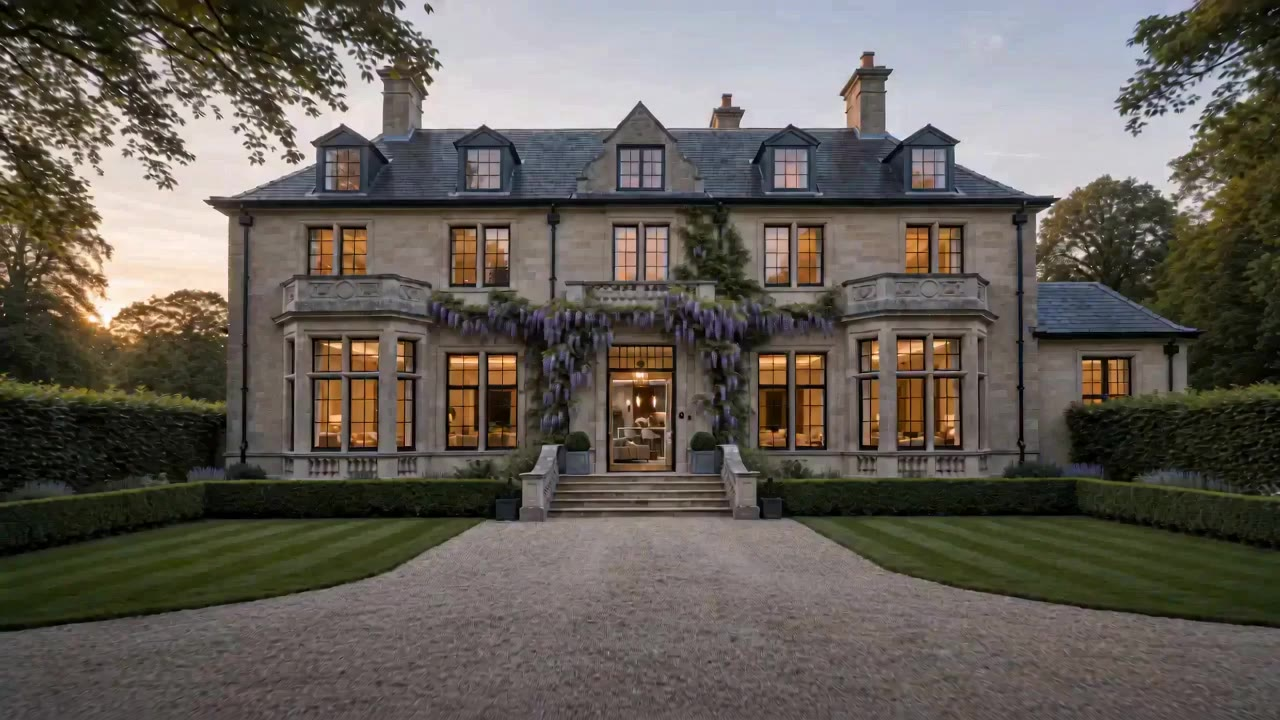
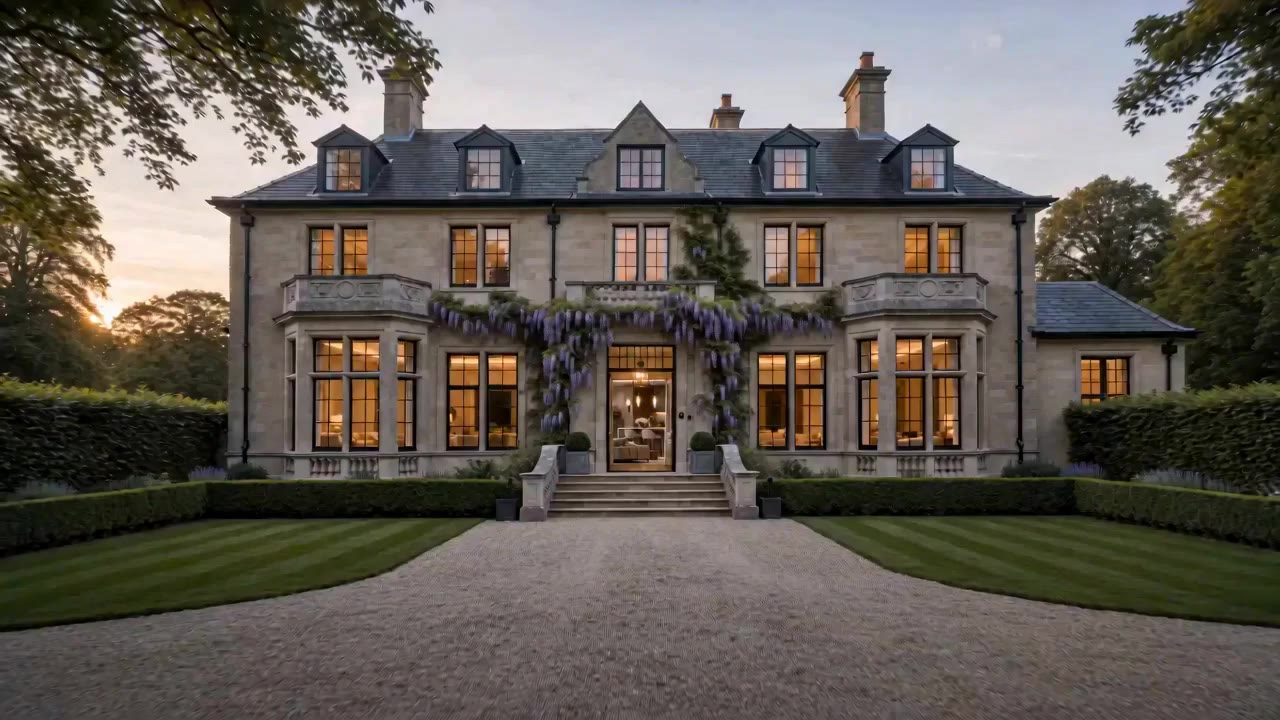
Desktop hero v3: the enclosed-hall journey, matching the mobile take
Same architecture the user loved on mobile: through the front door only
the lantern-lit panelled hall is visible, the hall bends, and the shot
settles on the parkland living room end frame. Desktop frames ship
under a fresh versioned directory (frames-v3) per the deploy-safety
notes; poster regenerated and version-bumped.

diff --git a/index.html b/index.html
@@ -56,7 +56,7 @@
     <link rel="stylesheet" href="css/style.css?v=9">
     <link rel="stylesheet" href="css/effects.css?v=7">
     <link rel="stylesheet" href="css/hero-journey.css?v=7">
-    <link rel="preload" as="image" href="images/hero/poster.jpg?v=2" fetchpriority="high" media="(orientation: landscape)">
+    <link rel="preload" as="image" href="images/hero/poster.jpg?v=3" fetchpriority="high" media="(orientation: landscape)">
     <link rel="preload" as="image" href="images/hero/poster-mobile.jpg?v=4" fetchpriority="high" media="(orientation: portrait)">
 
     <!-- Schema Markup -->
@@ -170,7 +170,7 @@
                 <canvas class="hero-canvas" id="heroCanvas" hidden></canvas>
                 <picture class="hero-poster" id="heroPoster">
                     <source media="(orientation: portrait)" srcset="images/hero/poster-mobile.jpg?v=4">
-                    <img src="images/hero/poster.jpg?v=2" alt="" fetchpriority="high" decoding="async" onerror="this.parentNode.hidden=true">
+                    <img src="images/hero/poster.jpg?v=3" alt="" fetchpriority="high" decoding="async" onerror="this.parentNode.hidden=true">
                 </picture>
                 <div class="hero-overlay"></div>
                 <div class="hero-vignette"></div>